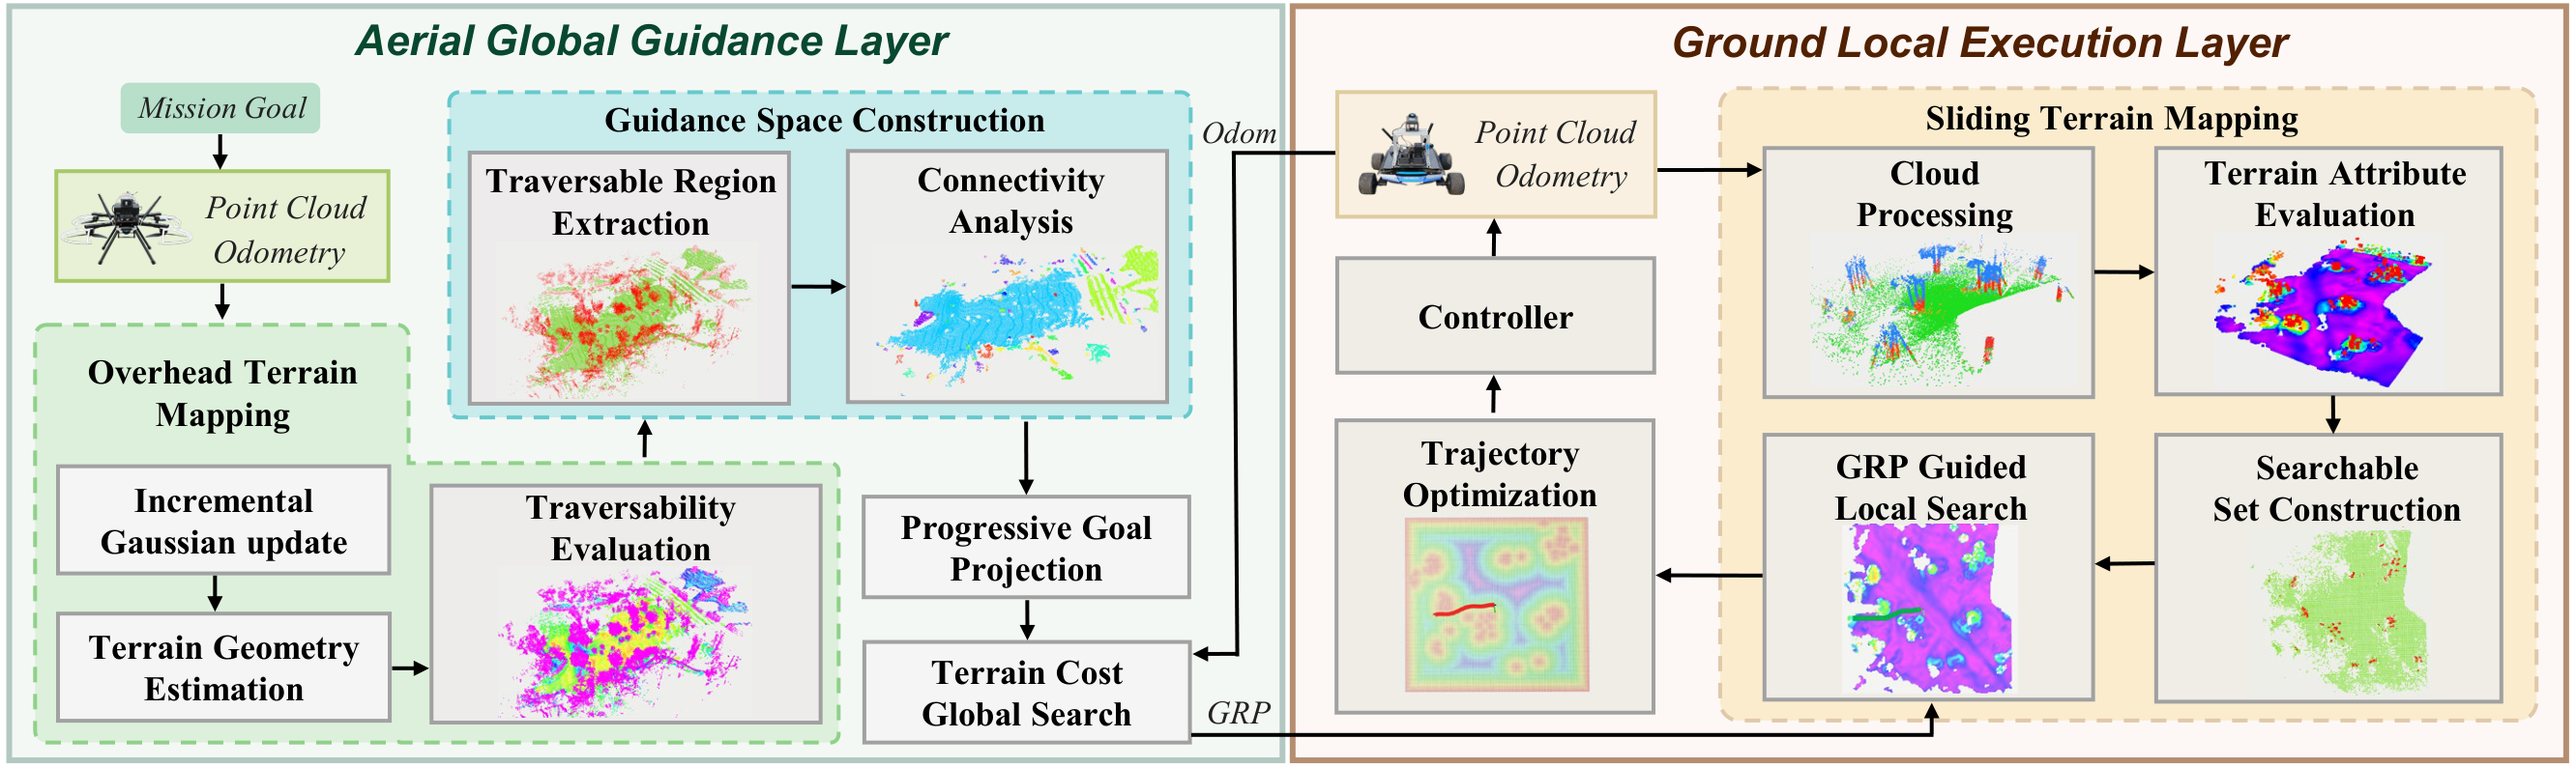
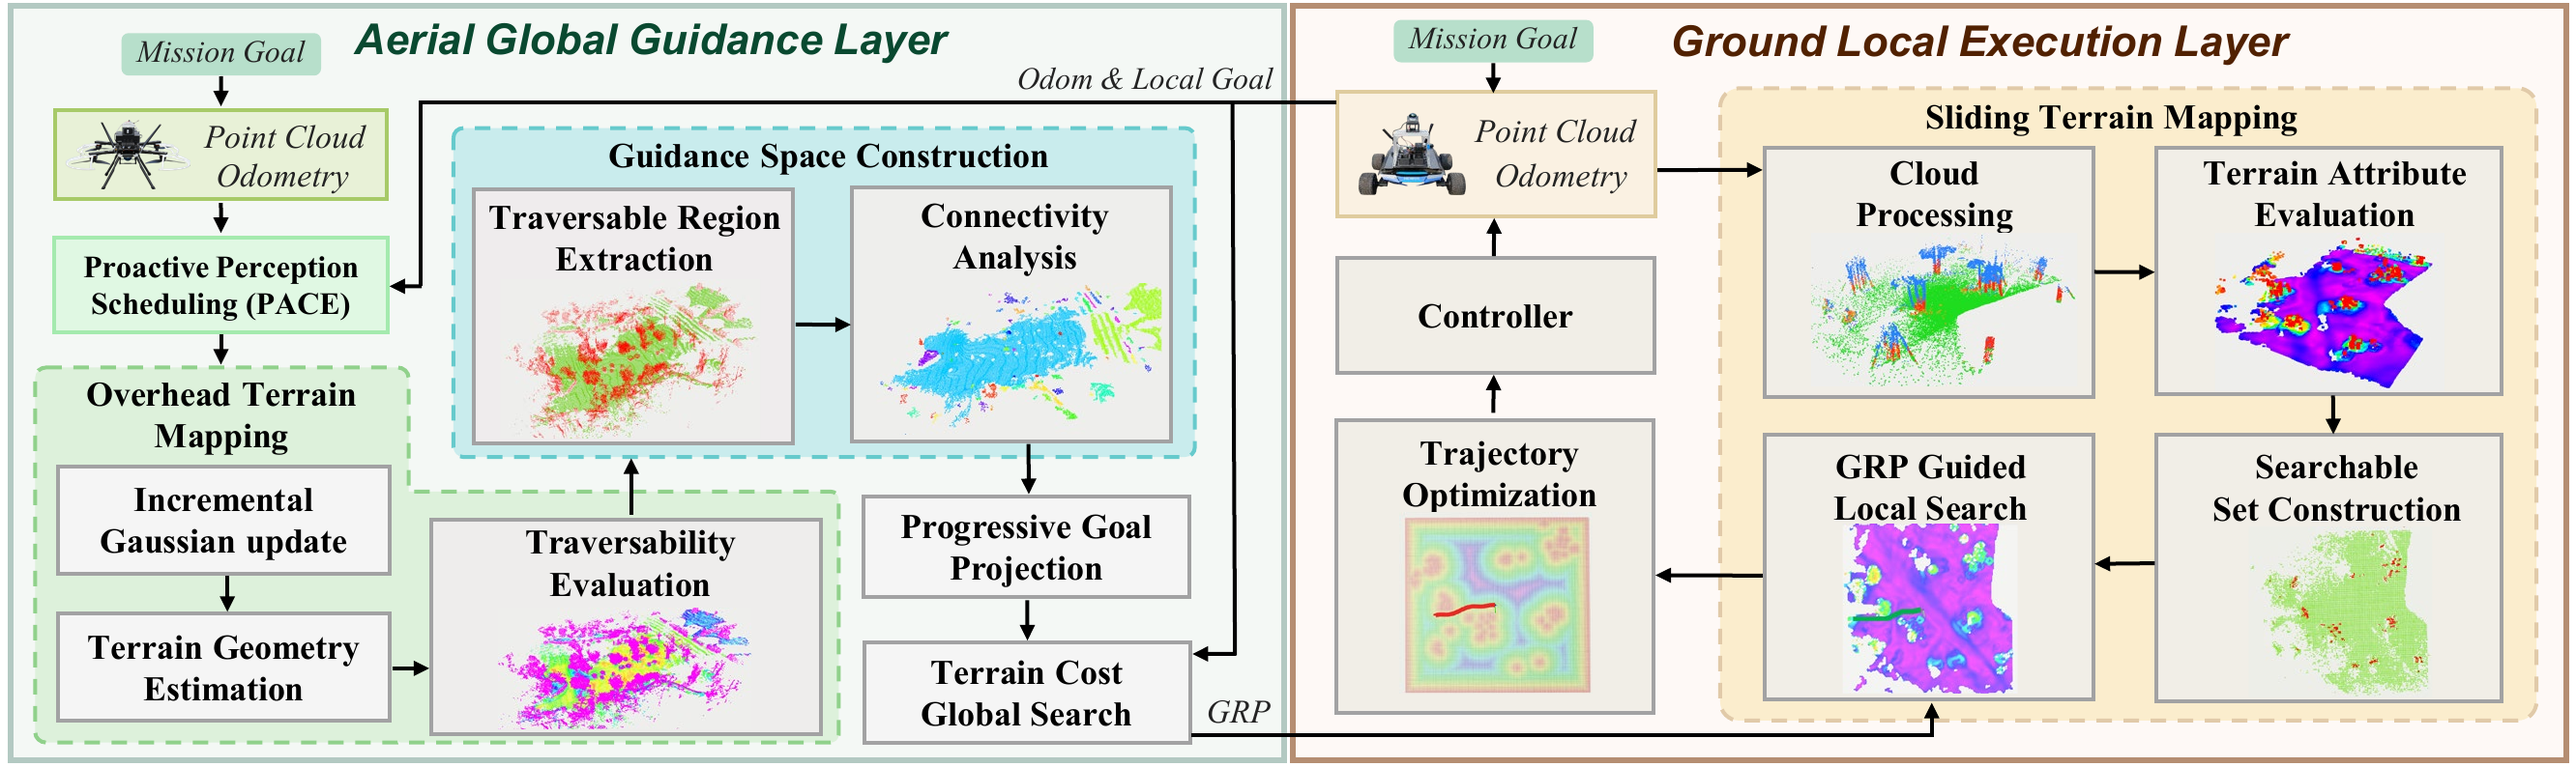
Update AGTP system framework to revised paper figure

diff --git a/index.html b/index.html
@@ -37,7 +37,7 @@
         </div>
         <figcaption><span>Look ahead from the air. Plan locally on the ground.</span></figcaption>
       </figure>
-      <figure class="framework-figure"><img src="assets/images/system-framework.png" alt="AGTP system framework: aerial global guidance with terrain mapping and connected-space path search, coupled to ground local mapping, planning and trajectory optimization" width="2664" height="794"></figure>
+      <figure class="framework-figure"><img src="assets/images/system-framework.png?v=20261104" alt="AGTP system framework: aerial proactive perception scheduling, overhead terrain mapping and global guidance, coupled to ground local terrain mapping, planning and trajectory optimization" width="2664" height="794"></figure>
     </section>
 
 <section class="section container" id="method" aria-labelledby="method-title">
